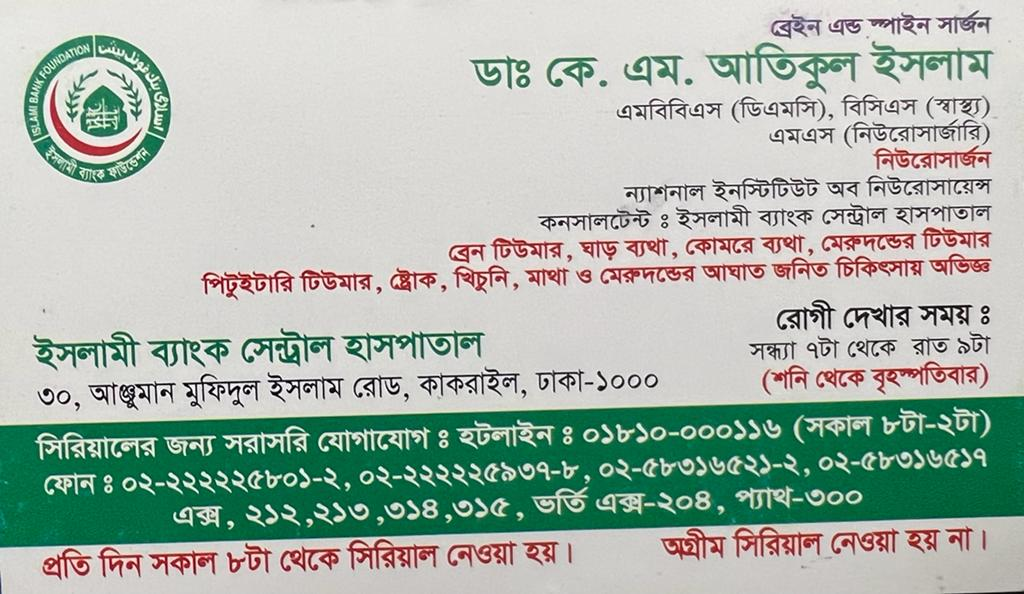
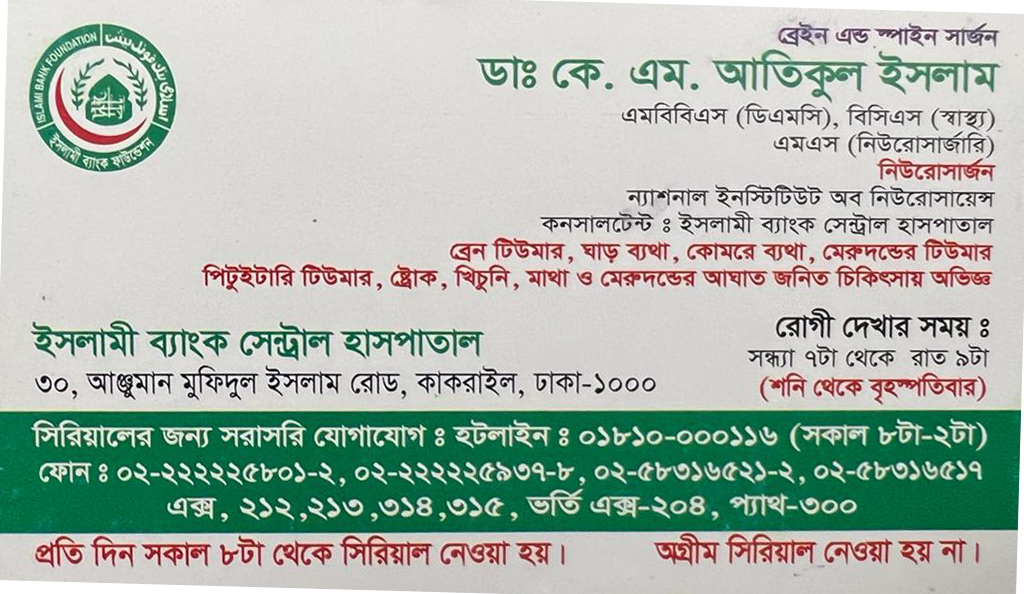
correction

diff --git a/src/components/appoinment/Appoinment.jsx b/src/components/appoinment/Appoinment.jsx
@@ -15,6 +15,12 @@ import chamberAddress from "../../assets/images/appoinment/ChamberAddress.jpeg"
 import inHospital1 from "../../assets/images/in-hospital/in-hospital (2).jpg"
 import inHospital2 from "../../assets/images/in-hospital/in-hospital (1).jpeg"
 import inHospital3 from "../../assets/images/in-hospital/in-hospital (3).jpg"
+import inHospital4 from "../../assets/images/gallery/Headshot.jpeg"
+import inHospital5 from "../../assets/images/gallery/Political leader of gopalgong also get relieved from tumor by the surgery of Dr.Atique.jpg"
+import inHospital6 from "../../assets/images/gallery/Seminar 1.jpg"
+import inHospital7 from "../../assets/images/gallery/Seminar 2.jpg"
+import inHospital8 from "../../assets/images/gallery/Seminar 3.jpg"
+
 import { Link } from 'react-router-dom';
 
 const Appoinment = () => {
@@ -51,34 +57,7 @@ const Appoinment = () => {
                                             <img className="img1 img-fluid img-thumbnail" src={chamberAddress} alt="" />
                                         </div>
                                     </div>
-                                    {/* <form action="#">
-                                        <div className="form-group">
-                                            <div className="dropdown bootstrap-select form-select"><select className="form-select">
-                                                <option selected="">Selecty Department</option>
-                                                <option value="1">One</option>
-                                                <option value="2">Two</option>
-                                                <option value="3">Three</option>
-                                            </select><button type="button" tabIndex="-1" className="btn dropdown-toggle btn-light" data-bs-toggle="dropdown" role="combobox" aria-owns="bs-select-1" aria-haspopup="listbox" aria-expanded="false" title="Selecty Department"><div className="filter-option"><div className="filter-option-inner"><div className="filter-option-inner-inner">Selecty Department</div></div> </div></button><div className="dropdown-menu "><div className="inner show" role="listbox" id="bs-select-1" tabIndex="-1"><ul className="dropdown-menu inner show" role="presentation"></ul></div></div></div>
-                                        </div>
-                                        <div className="form-group">
-                                            <div className="dropdown bootstrap-select form-select"><select className="form-select">
-                                                <option selected="">Select Doctor</option>
-                                                <option value="1">One</option>
-                                                <option value="2">Two</option>
-                                                <option value="3">Three</option>
-                                            </select><button type="button" tabIndex="-1" className="btn dropdown-toggle btn-light" data-bs-toggle="dropdown" role="combobox" aria-owns="bs-select-2" aria-haspopup="listbox" aria-expanded="false" title="Select Doctor"><div className="filter-option"><div className="filter-option-inner"><div className="filter-option-inner-inner">Select Doctor</div></div> </div></button><div className="dropdown-menu "><div className="inner show" role="listbox" id="bs-select-2" tabIndex="-1"><ul className="dropdown-menu inner show" role="presentation"></ul></div></div></div>
-                                        </div>
-                                        <div className="form-group">
-                                            <input type="text" className="form-control" placeholder="Your Name" />
-                                        </div>
-                                        <div className="form-group">
-                                            <input type="number" className="form-control" placeholder="Phone Numbers" />
-                                        </div>
-                                        <div className="form-group">
-                                            <input type="date" className="form-control" />
-                                        </div>
-                                        <button type="submit" className="btn btn-secondary btn-lg">Appointment Now</button>
-                                    </form> */}
+                                  
                                 </div>
                             </div>
 
@@ -90,7 +69,22 @@ const Appoinment = () => {
                                             <img className="img1 img-fluid img-thumbnail" src={inHospital1} alt="" />
                                         </div>
                                         <div className="col-sm-4">
+                                            <img className="img1 img-fluid img-thumbnail" src={inHospital4} alt="" />
+                                        </div>
+                                        <div className="col-sm-4">
+                                            <img className="img1 img-fluid img-thumbnail" src={inHospital6} alt="" />
+                                        </div>
+                                        <div className="col-sm-4">
+                                            <img className="img1 img-fluid img-thumbnail" src={inHospital5} alt="" />
+                                        </div>
+                                        <div className="col-sm-4">
+                                            <img className="img1 img-fluid img-thumbnail" src={inHospital7} alt="" />
+                                        </div>
+                                        <div className="col-sm-4">
                                             <img className="img1 img-fluid img-thumbnail" src={inHospital2} alt="" />
+                                        </div>
+                                        <div className="col-sm-4">
+                                            <img className="img1 img-fluid img-thumbnail" src={inHospital4} alt="" />
                                         </div>
                                         <div className="col-sm-4">
                                             <img className="img1 img-fluid img-thumbnail" src={inHospital3} alt="" />
@@ -98,30 +92,15 @@ const Appoinment = () => {
                                         <div className="col-sm-4">
                                             <img className="img1 img-fluid img-thumbnail" src={inHospital1} alt="" />
                                         </div>
-                                        <div className="col-sm-4">
-                                            <img className="img1 img-fluid img-thumbnail" src={inHospital2} alt="" />
-                                        </div>
-                                        <div className="col-sm-4">
-                                            <img className="img1 img-fluid img-thumbnail" src={inHospital3} alt="" />
-                                        </div>
-                                        <div className="col-sm-4">
-                                            <img className="img1 img-fluid img-thumbnail" src={inHospital1} alt="" />
+                                        {/* <div className="col-sm-4">
+                                            <img className="img1 img-fluid img-thumbnail" src={inHospital8} alt="" />
                                         </div>
                                         <div className="col-sm-4">
                                             <img className="img1 img-fluid img-thumbnail" src={inHospital2} alt="" />
                                         </div>
                                         <div className="col-sm-4">
                                             <img className="img1 img-fluid img-thumbnail" src={inHospital3} alt="" />
-                                        </div>
-                                        <div className="col-sm-4">
-                                            <img className="img1 img-fluid img-thumbnail" src={inHospital1} alt="" />
-                                        </div>
-                                        <div className="col-sm-4">
-                                            <img className="img1 img-fluid img-thumbnail" src={inHospital2} alt="" />
-                                        </div>
-                                        <div className="col-sm-4">
-                                            <img className="img1 img-fluid img-thumbnail" src={inHospital3} alt="" />
-                                        </div>
+                                        </div> */}
                                     </div>
                                     <div className="text-end mt-3">
                                         <Link to="/photos-gallery" class="btn btn-primary shadow p-2"> More <i class="fa-solid fa-angles-right"></i> </Link>

diff --git a/src/components/shareable/Header.jsx b/src/components/shareable/Header.jsx
@@ -57,17 +57,17 @@ const Header = () => {
                                     <ul className="sub-menu">
                                         <li className="add-menu-left">
                                             <ul>
-                                                <li><Link to="/service-detail"><span>Brain Tumour Operation</span></Link></li>
-                                                <li><Link to="/service-detail"><span>Endoscopic Brain Surgery (pituitory, etv and others)</span></Link></li>
-                                                <li><Link to="/service-detail"><span>Scalbase Neuro Surgery</span></Link></li>
-                                                <li><Link to="/service-detail"><span>Vascular Neuro Surgery</span></Link></li>
-                                                <li><Link to="/service-detail"><span>Pediatric Neuro Surgery</span></Link></li>
-                                                <li><Link to="/service-detail"><span>Spinal Surgery</span></Link></li>
-                                                <li><Link to="/service-detail"><span>Traumatic Brain & Spine Surgery</span></Link></li>
-                                                <li><Link to="/service-detail"><span>Epilepsy Surgery</span></Link></li>
-                                                <li><Link to="/service-detail"><span>Spainal Tumour</span></Link></li>
-                                                <li><Link to="/service-detail"><span> Microdiscectomy</span></Link></li>
-                                                <li><Link to="/service-detail"><span> Stroke Surgery (Urgent Surgery of stroke patients)</span></Link></li>
+                                                <li><Link to="#"><span>Brain Tumour Operation</span></Link></li>
+                                                <li><Link to="#"><span>Endoscopic Brain Surgery (pituitory, etv and others)</span></Link></li>
+                                                <li><Link to="#"><span>Scalbase Neuro Surgery</span></Link></li>
+                                                <li><Link to="#"><span>Vascular Neuro Surgery</span></Link></li>
+                                                <li><Link to="#"><span>Pediatric Neuro Surgery</span></Link></li>
+                                                <li><Link to="#"><span>Spinal Surgery</span></Link></li>
+                                                <li><Link to="#"><span>Traumatic Brain & Spine Surgery</span></Link></li>
+                                                <li><Link to="#"><span>Epilepsy Surgery</span></Link></li>
+                                                <li><Link to="#"><span>Spainal Tumour</span></Link></li>
+                                                <li><Link to="#"><span> Microdiscectomy</span></Link></li>
+                                                <li><Link to="#"><span> Stroke Surgery (Urgent Surgery of stroke patients)</span></Link></li>
                                             </ul>
                                         </li>
                                     </ul>
@@ -83,7 +83,7 @@ const Header = () => {
 
 
                                 <li className="num-bx contact_info">
-                                    <a href="tel:(+880)1961449755"> <span><i class="fa-solid fa-phone"></i> </span> 01961449755 </a>
+                                    <a href="/#"> <span><i class="fa-solid fa-phone"></i> </span> 01961449755 </a>
                                 </li>
                                 <li className="num-bx contact_info">
                                     <a href="/#"> <span><i class="fa-solid fa-envelope-circle-check"></i></span> kazidmc@gmail.com </a>

diff --git a/src/components/shareable/Footer.jsx b/src/components/shareable/Footer.jsx
@@ -4,7 +4,8 @@ import shap1 from "../../assets/images/shap/wave-blue.png";
 import shap2 from "../../assets/images/shap/circle-dots.png";
 import shap3 from "../../assets/images/shap/plus-blue.png";
 import facebook from "../../assets/images/social/facebook.png"
-import visitingCard from "../../assets/images/appoinment/visitingCard.JPEG"
+import youtube from "../../assets/images/social/youtube.png"
+import visitingCard from "../../assets/images/appoinment/visitingCard.png"
 import logo from "./../../assets/images/logo.png"
 import medicalInfo from "../../assets/images/banner/footer_img.jpg"
 
@@ -59,7 +60,7 @@ const Footer = () => {
                             </div>
                             <div className="col-xl-3 col-lg-3 col-md-6">
                                 <div className="widget widget_form ms-3">
-                                  
+
                                     <h3 className="footer-title">Site Map</h3>
                                     <ul>
                                         <li><Link to="/about"><span>About Dr. Atique</span></Link></li>
@@ -80,11 +81,13 @@ const Footer = () => {
                 <div className="container">
                     <div className="footer-social-link mx-3 mt-5 text-center mb-2">
                         <ul>
-                            <li><a target="_blank" rel="noreferrer" href="https://www.facebook.com/Neurosurgeondratique-100861652690269">
-                                <img src={facebook} alt="" />
-                            </a></li>
+                            <li>
+                                <a target="_blank" rel="noreferrer" href="https://www.facebook.com/Neurosurgeondratique-100861652690269">
+                                    <img src={facebook} alt="" />
+                                </a></li>
                             <li><a target="_blank" rel="noreferrer" href="https://www.youtube.com/channel/UCTt7e2oBOpwI56ANOwQlKag">
-                                youtube
+                                <img src={youtube} alt="" />
+
                             </a></li>
 
                         </ul>

diff --git a/public/index.html b/public/index.html
@@ -8,9 +8,9 @@
   <meta name="theme-color" content="#000000" />
   <meta name="author" content="Dr. Atiqul Islam" />
   <meta name="keyword"
-    content="Neurosurgeon, Brain Tumour Operation, Endoscopic Brain Surgery, Scalbase Neuro Surgery, Vascular Neuro Surgery, Pediatric Neuro Surgery, Spinal Surgery, Traumatic Brain & Spine Surgery, Epilepsy Surgery, Spainal Tumour, Microdiscectomy, Stroke Surgery" />
+    content="Neurosurgeon, Neurosurgery, Doctor, Spine, Brain, Islami Bank Hospital, NINS, Dr., Atiqul Islam, Atique, Dr. Atique, Dr. Atiqul Islam, Best Neurosurgeon, Dhaka, Bangladesh, Government Doctor, Government Neurosurgeon, Govt. Neurosurgeon, Affordable Neurosurgeon, Expert Neurosurgeon, Brain specialist, Spine specialist, Neurosurgery specialist, Gopalganj Neurosurgeon" />
 
-  <meta name="description" content="Dr. Atiqur Islam is a neurosurgery specialist" />
+  <meta name="description" content="Dr. Atiqul Islam is a neurosurgery specialist" />
   <link rel="apple-touch-icon" href="%PUBLIC_URL%/logo192.png" />
   <!--
       manifest.json provides metadata used when your web app is installed on a

diff --git a/src/components/mainBanner/MainBanner.jsx b/src/components/mainBanner/MainBanner.jsx
@@ -5,11 +5,11 @@ import squareBlue from "./../../assets/images/shap/square-blue.png"
 import circleBlue from "./../../assets/images/shap/chicle-blue-2.png"
 import plusOrange from "./../../assets/images/shap/plus-orange.png"
 import waveOrange from "./../../assets/images/shap/wave-orange.png"
-import doctorImage from "./../../assets/images/main-banner/dr_atique.jpeg"
-// import doctorImage from "./../../assets/images/main-banner/doctor.png"
+import doctorImage from "./../../assets/images/dr/doctor.png"
 import govtLogo from "./../../assets/images/govt_logo.png"
 
 const MainBanner = () => {
+    
     return (
         <div className="main-banner"
             style={{ backgroundImage: `url(${mainBanner})` }}

diff --git a/src/assets/css/style.css b/src/assets/css/style.css
@@ -19951,6 +19951,10 @@ footer .widget .footer-title:after {
   background-image: url(../images/shap/footer-line.png);
   background-repeat: no-repeat;
 }
+
+.footer-social-link .facebook i{
+  fill: green;
+}
 @media only screen and (max-width: 767px) {
   footer .widget .footer-title {
     padding-bottom: 15px;
